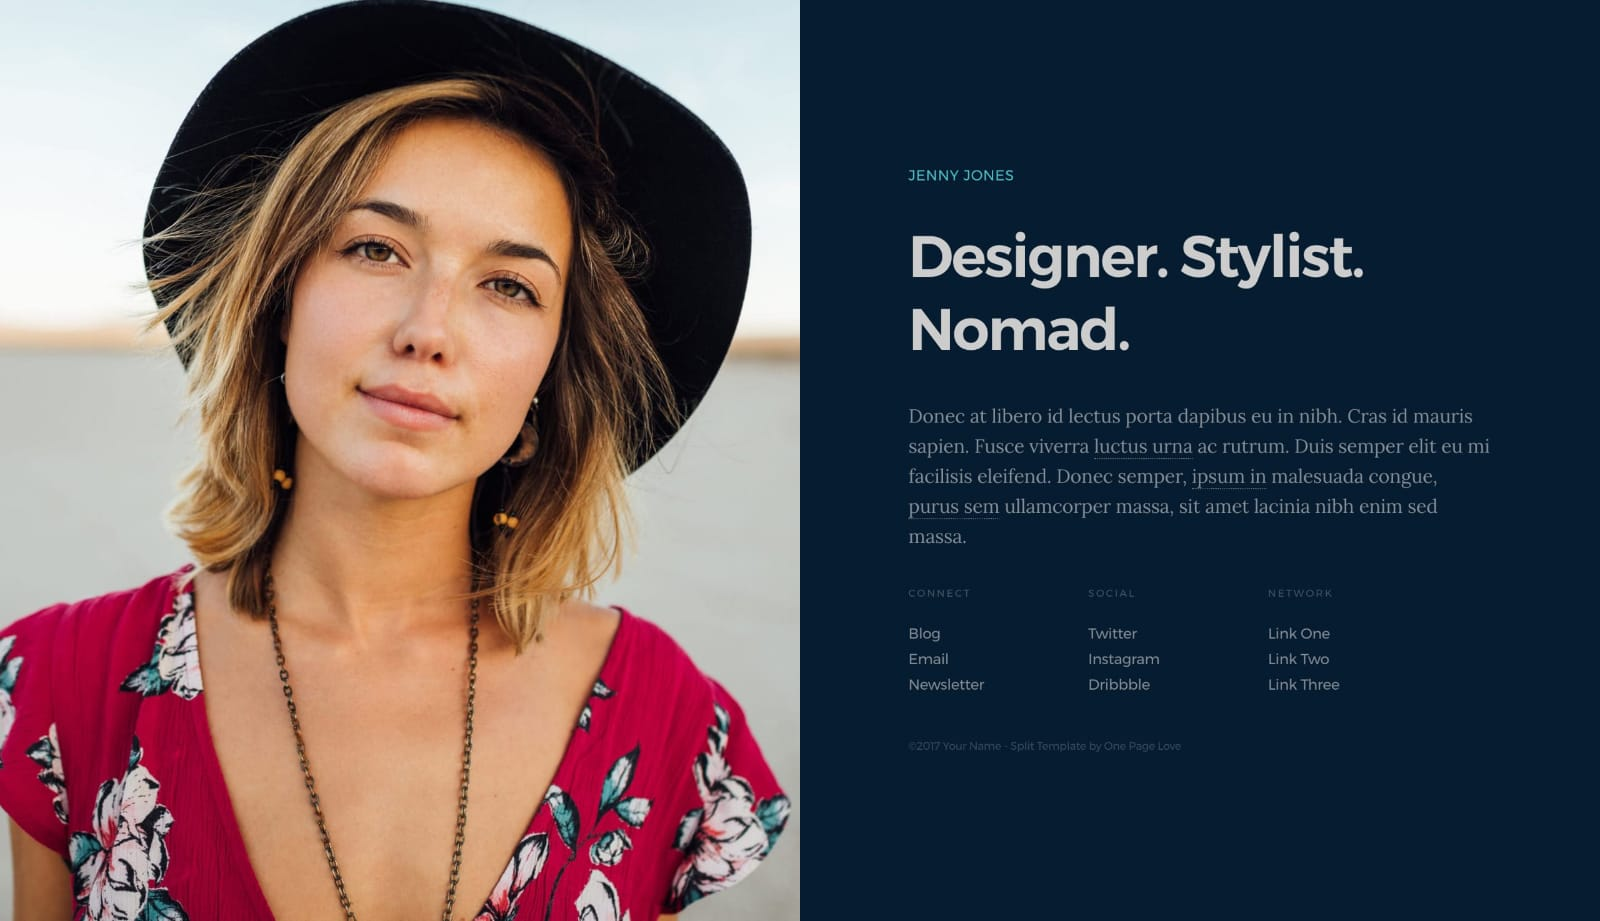
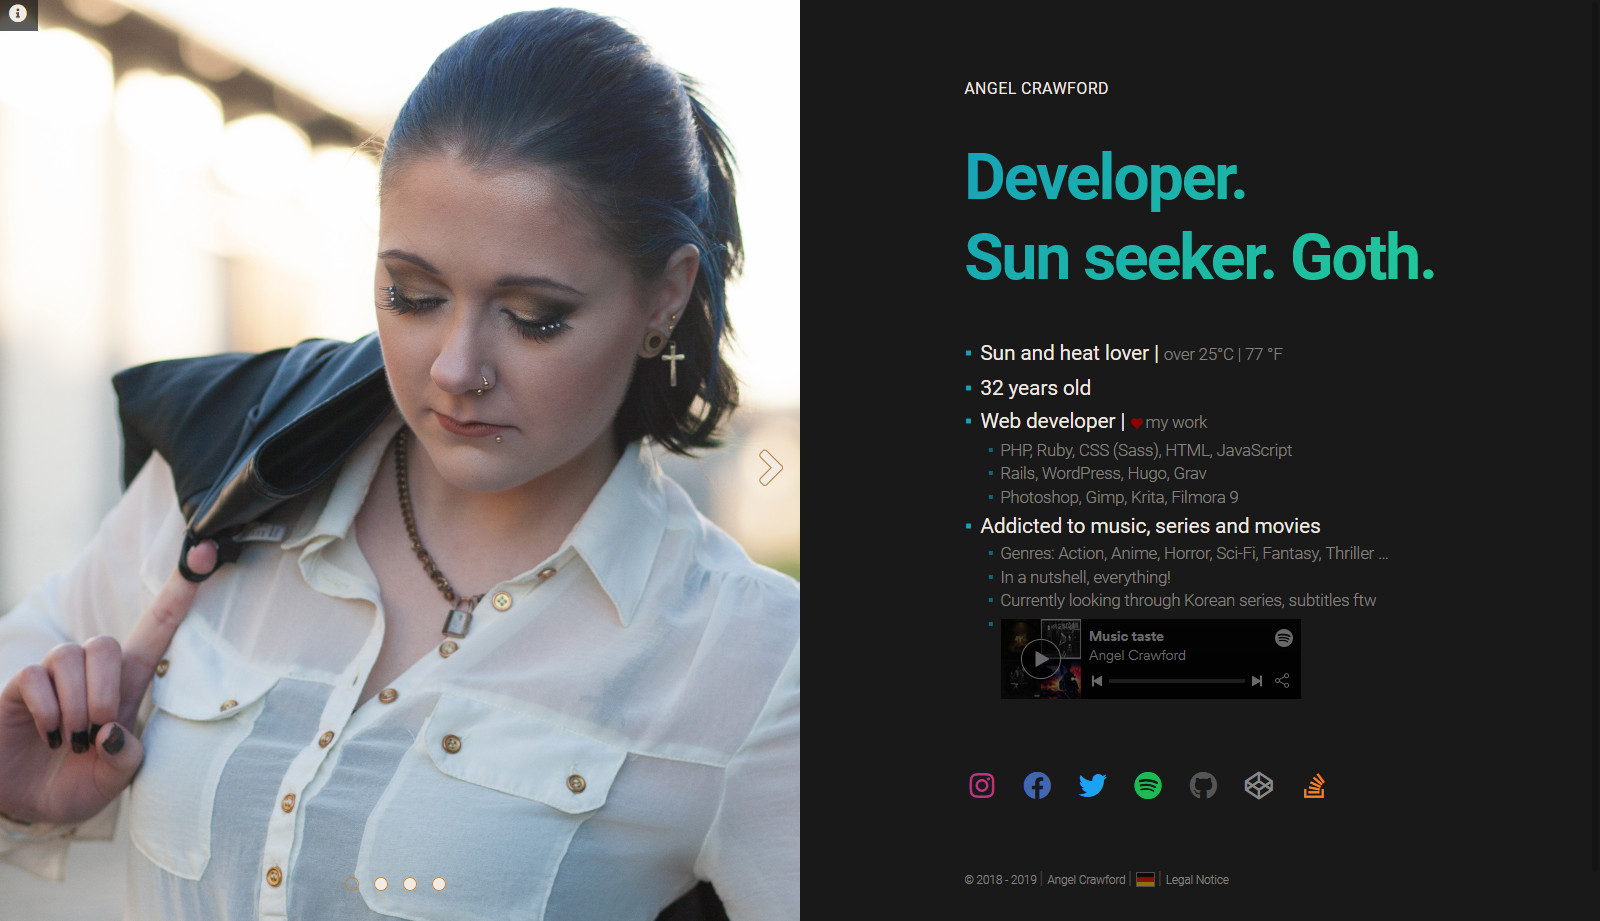
added a share image, and reworked the content, closed #1

diff --git a/themes/card/layouts/partials/head.html b/themes/card/layouts/partials/head.html
@@ -11,10 +11,10 @@
 <!-- Social & Open Graph -->
 <meta property="og:title" content="{{ if .IsPage }}{{ .Title }} - {{ end }}{{ .Site.Title }}" />
 {{ with .Site.Params.description }}<meta property="og:description" content="{{ . }}" />{{ end }}
-<meta property="og:url" content="{{ .Site.BaseURL }}" />
+  <meta property="og:url" content="{{ .Site.BaseURL }}" />
 {{ with .Site.Params.shareImage }}
-<meta property="og:image" content="{{ . | absURL }}" />
-<meta name="twitter:card" content="summary_large_image" />
+  <meta property="og:image" content="{{ . | absURL }}" />
+  <meta name="twitter:card" content="summary_large_image" />
 {{ end }}
 {{ with .Site.Params.twitterHandle }}<meta name="twitter:site" content="@{{ . }}" />{{ end }}
 

diff --git a/themes/card/assets/scss/02-content.scss b/themes/card/assets/scss/02-content.scss
@@ -287,10 +287,12 @@ body.page-template-page-fullsingle-split {
 
   }
 
-  em,
-  i {
+  em {
     font-style: italic;
     line-height: inherit;
+  }
+  i {
+    font-size: 70%;
   }
 
   strong,
@@ -303,6 +305,7 @@ body.page-template-page-fullsingle-split {
     font-size: 80%;
     line-height: inherit;
     @include font-light;
+    color: rgba($color-text, .5);
   }
 
   h1, .h1,
@@ -451,8 +454,8 @@ body.page-template-page-fullsingle-split {
     height: 80px;
     width: 300px;
     display: block;
-    margin-left: 1.3em;
-    margin-top: .3em;
+    margin-left: .8em;
+    margin-top: -1em;
     background-color: $color-background;
     cursor: pointer;
     @media (max-width: 388px ) {

diff --git a/themes/card/assets/scss/03-slider.scss b/themes/card/assets/scss/03-slider.scss
@@ -30,7 +30,7 @@ $slider-width: 100% / $slider-number;
       background-repeat: no-repeat;
 
       @media (min-width: $bp-smallish + 1px ) {
-        background-position: center top !important;
+        background-position: center 10% !important;
       }
     }
   }

diff --git a/content/_index.en.md b/content/_index.en.md
@@ -3,11 +3,14 @@ title = "Angel Crawford"
 tagline = "Developer. <br />Sun seeker. Goth."
 +++
 
-* Sun and heat lover (over 25°C)
+* Sun and heat lover | <small>over 25°C | 77 °F</small>
 * {{< birthDate >}} years old
-* Web developer | Love my work
+* Web developer | <small><span style="color: darkred;"><i class="fas fa-heart"></i></span> my work</small>
   * PHP, Ruby, CSS (Sass), HTML, JavaScript
   * Rails, WordPress, Hugo, Grav
   * Photoshop, Gimp, Krita, Filmora 9
-* Addicted to music and series
-  {{< spotifyPlaylist >}}
+* Addicted to music, series and movies
+  * Genres: Action, Anime, Horror, Sci-Fi, Fantasy, Thriller ...
+  * In a nutshell, everything!
+  * Currently looking through Korean series, subtitles ftw
+  * {{< spotifyPlaylist >}}

diff --git a/content/_index.de.md b/content/_index.de.md
@@ -3,11 +3,14 @@ title = "Angel Crawford"
 tagline = "Entwickler. Sonnenliebhaber. Goth."
 +++
 
-* Sonne und Wärme Liebhaber (über 25°C)
+* Sonne und Wärme Liebhaber | <small>über 25°C | 77 °F</small>
 * {{< birthDate >}} Jahre jung
-* Web Entwickler | Liebe meine Arbeit
+* Web Entwickler | <small><span style="color: darkred;"><i class="fas fa-heart"></i></span> meine Arbeit</small>
   * PHP, Ruby, CSS (Sass), HTML, JavaScript
   * Rails, WordPress, Hugo, Grav
   * Photoshop, Gimp, Krita, Filmora 9
 * Musik- und Seriensüchtig
-  {{< spotifyPlaylist >}}
+  * Genres: Action, Anime, Horror, Sci-Fi, Fantasy, Thriller ...
+  * Schneller gesagt, einfach alles!
+  * Momentan sind Koreanische Serien dran, Untertitel ftw.
+  * {{< spotifyPlaylist >}}
